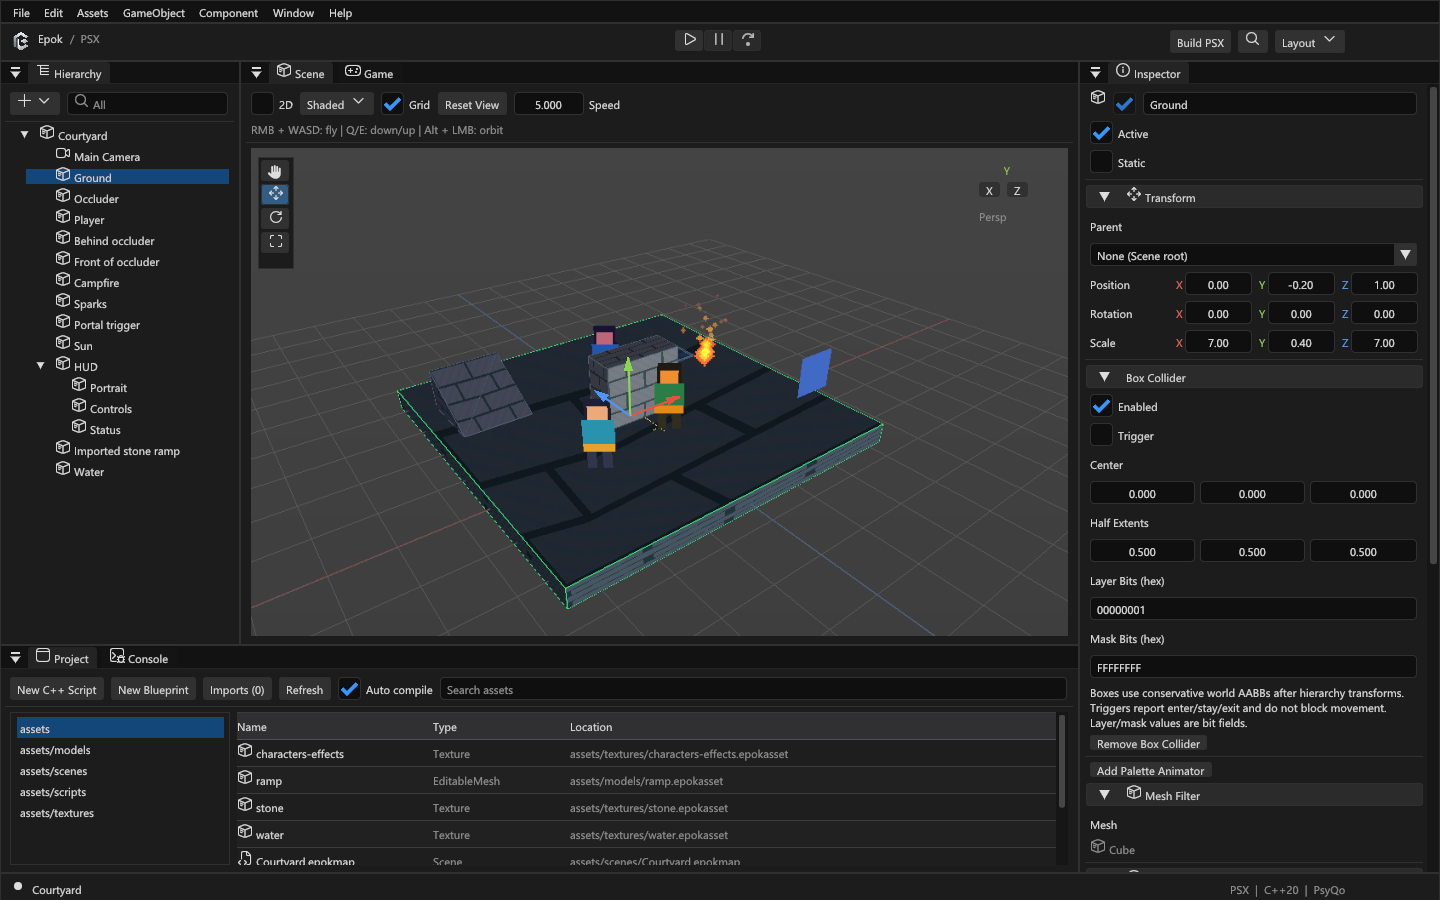
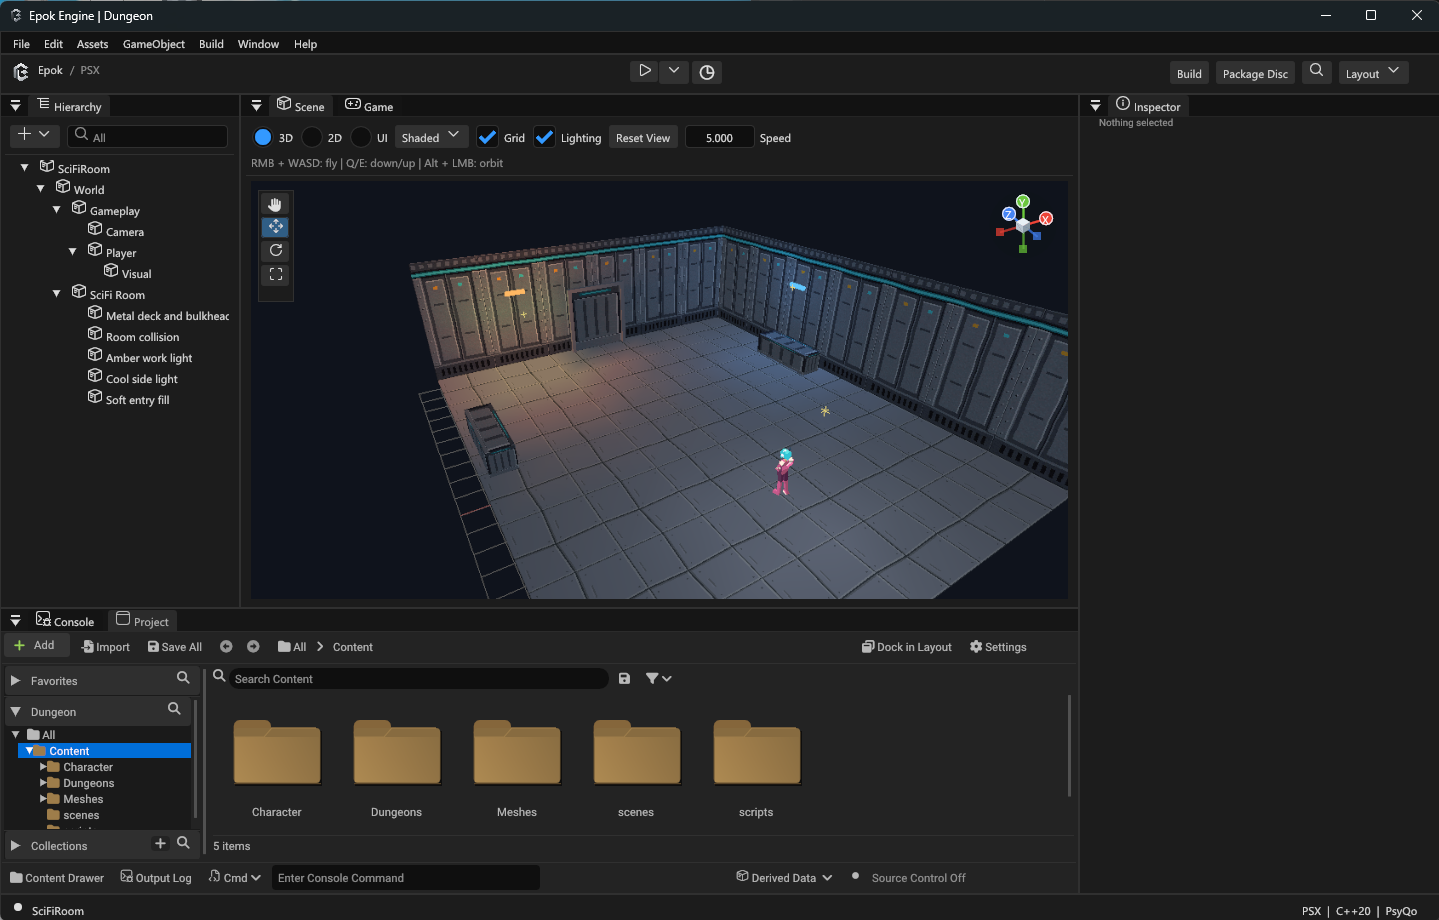
Refresh README showcase and feature overview
Replace the courtyard capture with the supplied sci-fi room screenshot. Update the feature overview for current editor, asset, animation, lighting, music, optimization and inspection workflows, and correct outdated animation and collision limits.

diff --git a/README.md b/README.md
@@ -6,7 +6,7 @@
 
 <p align="center">
   <strong>A desktop game engine for the original PlayStation.</strong><br />
-  Build worlds, animate characters and create gameplay with Blueprints or C++.
+  Build worlds, animate characters and create gameplay with C++, Blueprints or Lua.
 </p>
 
 <p align="center">
@@ -25,13 +25,13 @@
 
 ---
 
-Epok brings a visual editor workflow to PSX development. Create a project, arrange a scene, import assets, connect Blueprint graphs or write C++ behaviours, and press **Play**. Your game compiles to a native MIPS executable and runs inside an integrated PCSX-Redux Game view.
+Epok brings a visual editor workflow to PSX development. Create a project, arrange a scene, import assets, connect Blueprint graphs or write C++ or Lua gameplay, and press **Play**. Your game compiles to a native MIPS executable and runs inside an integrated PCSX-Redux Game view.
 
 **Windows x64, macOS Apple Silicon and Linux x86_64 · Experimental · MIT-licensed original code.** The editor and runtime are in active development. Emulator validation is available; physical-console validation is pending.
 
-![Epok editor with the scene viewport, editable 2.5D courtyard, scene hierarchy and component inspector](docs/images/epok-editor.png)
+![Epok editor with a lit sci-fi room in the 3D scene viewport, scene hierarchy and Content browser](docs/images/epok-editor.png)
 
-<p align="center"><sub>The included 2.5D courtyard, open in the real editor. Screenshots in this README show the working application.</sub></p>
+<p align="center"><sub>A lit sci-fi room, open in the real editor. Screenshots in this README show the working application.</sub></p>
 
 ## Features
 
@@ -43,20 +43,28 @@ the **[complete feature catalog](docs/features.md)**.
 
 | | What you can do |
 | --- | --- |
-| **Build your world** | Arrange entities in a dockable editor with transform gizmos, parenting and a component Inspector. Create and edit geometry with [Blockout](docs/blockout.md), including extrusion, bevels and geometry Undo/Redo. Sculpt and paint ground with [Terrain](docs/terrain.md). Generate seeded levels in 3D or 2D with the [Dungeon Generator](docs/dungeons.md): rooms and corridors, or recipes with branches, loops, keys and locks, floors joined by stairs and rooms built by hand, with a console minimap, gameplay queries, a seed bench and generation volumes. |
-| **Bring in your assets** | Import [PNG textures](docs/textures.md), [OBJ/MTL models](docs/static-mesh-import.md) and [FBX characters](docs/skeletal.md). Asset identities survive moves and reimports. |
+| **Edit scenes** | Arrange actors in a [dockable workspace](docs/editor.md) with 3D, 2D and UI authoring modes, transform gizmos, parenting, a component Inspector and scene Undo/Redo. Projects stay in independent game folders, with templates for C++, Blueprint or Lua starter gameplay. |
+| **Organize your content** | Browse tiles or a file table in the [Content Browser](docs/content-browser.md), with search, filters, Favorites, Collections and texture, audio and model previews. Grouped creation menus, drag-and-drop placement, identity-preserving moves, reimport and recoverable deletion keep assets manageable. |
+| **Build your world** | Create and edit geometry with [Blockout](docs/blockout.md): primitives, vertices, edges, faces, extrusion, inset, bevels, subdivision and geometry Undo/Redo. Sculpt and paint [Terrain](docs/terrain.md) with autotiled materials and an optional heightfield collider. |
+| **Generate dungeons** | Build seeded 3D or 2D levels with the [Dungeon Generator](docs/dungeons.md). Edit styles and recipes for branches, loops, caves, keys and locks, floors joined by stairs and rooms built by hand. Use generation volumes, a seed bench, gameplay queries and a console minimap, or start with the playable [Dungeon template](docs/dungeon-template.md). |
+| **Bring in your assets** | Import [PNG and native 4/8-bit TIM textures](docs/textures.md), [OBJ/MTL models](docs/static-mesh-import.md) and [FBX characters](docs/skeletal.md). Texture pages and palettes are packed into VRAM at build time; asset identities survive moves and reimports. |
+| **Animate characters** | Preview skeletons and clips, assign textures to material slots and place [skeletal characters](docs/skeletal.md). Choose direct rigid GTE skinning or compressed baked vertex animation per model; both use the same Animator and quantized 30 Hz clips. Animation bounds cull characters before pose or decode work. |
 | **Animate and add effects** | Build layered effects in the [VFX editor](docs/vfx-editor.md) with presets, Q12 curves, bursts and preview controls. Reuse [timelines](docs/timelines.md) for scene sequences and connect their markers to Blueprint gameplay. Use sprites, flipbooks, [particle emitters](docs/sprites-particles.md), fog and palette cycling. |
-| **Make 2D games** | Build [2D worlds](docs/2d.md) from Sprite2D, AnimatedSprite2D, TileMapLayer, Camera2D, CharacterBody2D, StaticBody2D, Area2D, Parallax2D, Path2D, Line2D, Polygon2D, Particles2D, Skeleton2D, navigation, RigidBody2D, Joint2D, SubViewport2D, SplitScreen2D, light, audio and canvas-layer nodes in a pixel-accurate 2D editor with move/rotate/scale tools, snapping, rulers, a sprite region editor, a sprite-sheet slicer and tile painting with terrains, patterns and a TileSet editor. Sprites, tile maps with tile collision, one-way and moving platforms, `move_and_slide`, triggers, particles, parallax, cut-out skeletons with two-bone IK, grid and navmesh pathfinding, pushable rigid bodies with rods, ropes and springs, render-to-VRAM pictures, split screen and a smoothed, limited camera run natively on the console. |
-| **Model your game objects** | Compose maps from [actors and components](docs/actors.md): `Actor3D`, `Actor2D` and `UIActor` classes written in C++ or as Blueprints, with typed components, per-map scene Blueprints and a 3D / 2D / UI authoring mode. Maps use one Actor collection. Older projects must be recreated; see [project recreation](docs/migration-actors.md). |
+| **Make 2D games** | Author [2D worlds](docs/2d.md) with snapping, rulers, sprite regions, sheet slicing and TileSet/terrain painting. Native PSX features include animated sprites, tile collision, one-way and moving platforms, `move_and_slide`, triggers, parallax, particles, cut-out skeletons with two-bone IK, grid/navmesh navigation, pushable rigid boxes and joints, render-to-VRAM views and split screen. Start with **Platformer 2D**. |
+| **Model your game objects** | Compose maps from [actors and components](docs/actors.md): `Actor3D`, `Actor2D` and `UIActor` classes authored in C++, Blueprint or Lua, with typed components, per-map scene Blueprints and a 3D / 2D / UI authoring mode. Maps use one Actor collection. Older projects must be recreated; see [project recreation](docs/migration-actors.md). |
 | **Write native gameplay** | Author C++20 behaviours with Inspector properties. Connect [input and collision](docs/input-collision.md), [scene transitions and object lifecycle](docs/runtime-services.md), cameras, tweens and [Memory Card storage](docs/memory-card.md). |
-| **Navigate NPCs** | Bake a bounded [NavLite](docs/navigation.md) walking graph from static box colliders, then reuse `NavigationAgentComponent` with a shared PSX search budget. Version 1 supports flat surfaces and obstacles. |
+| **Move characters and cameras** | Start with the [Third Person template](docs/third-person.md) for camera-relative movement, jumping, collision and an obstacle-aware orbit camera. Bake a bounded [NavLite](docs/navigation.md) walking graph from static box colliders for NPCs on flat surfaces, with a shared PSX search budget. |
 | **Build visual gameplay** | Create [Blueprint classes](docs/blueprints.md) with native or visual parents, inherited defaults, typed graph nodes, functions, event overrides and Call Parent. Author entity templates, spawn classes and debug node execution. Graphs compile ahead of time to native C++; no graph VM runs on the PSX. |
 | **Script gameplay in Lua** | Author classes in [Lua](docs/lua-scripting.md) that subclass reflected C++ or other Lua classes, with Inspector properties, event overrides, typed gameplay-service/component calls and explicit parent calls. One project-wide setting compiles the same scripts to native C++ or runs them through a Lua VM linked into the game. New projects use bounded, statically typed Gameplay profile 2; older manifests retain the scalar Legacy v1 profile. Neither profile is general Lua compatibility. |
-| **Light and render** | Combine baked vertex lighting, bounded realtime GTE lighting, static shadows and blob shadows. Author for PSX rendering limits with native [performance counters](docs/performance.md). |
+| **Light and render** | Combine [baked vertex lighting](docs/lighting.md), ambient occlusion, bounded realtime GTE lighting, static shadows and moving blob shadows. Light edits update baked previews in the background; Scene's Lighting toggle compares lit and authored colors. Add [sky gradients, depth fog, screen fades and scrolling UVs](docs/environment-effects.md). |
+| **Optimize large worlds** | Author camera paths and bake per-sample visibility and prepared draw order for guided cameras. Use retained geometry/HUD packets, chunk culling and optional [geometry streaming](docs/streaming.md) from CD or PCDrv into a bounded RAM pool. See [world optimization](docs/world-optimization.md) for each technique's scope and costs. |
+| **Inspect memory and performance** | Use the [Memory Analyzer](docs/play.md#memory-analyzer) to inspect Main RAM, VRAM, SPU, scratchpad and generated files, with a treemap and symbol/asset attribution. Enable native [FPS, CPU, GTE, GPU command DMA and SPU overlays](docs/performance.md), inspect resource/drop counters and capture runtime profiles. |
 | **Make PocketStation games** | Write [PocketStation](docs/pocketstation.md) apps in Pocket Lua (Lua compiled to ARM code by Epok) or ARM/Thumb assembly, draw their sprites and icons, and play them on the embedded PocketStation emulator with live variables and a debugger. Games install, start and exchange data with them from C++, Blueprints or Lua, and Play connects the game to the emulated PocketStation in memory card slot 1. |
 | **Play full-motion video** | Import MP4, MOV, AVI, MKV or WebM clips and play them from a Blueprint node or Lua as [full-screen video](docs/video.md): streamed from CD with XA sound, decoded by the MDEC, previewed in the Inspector exactly as the console shows them. |
-| **Add audio and UI** | Import WAV, MP3, FLAC or OGG for SPU sound effects and XA music. Build [HUDs](docs/hud.md) with text, atlases, nine-slice images, progress bars, buttons, check boxes, sliders and D-pad navigation, and translate them with a project string table. |
+| **Play sequenced music** | Convert MIDI and SoundFont instruments into a [MusicSequence](docs/assets.md#sequenced-psx-music) with a sample bank fitted to SPU memory. The **Epok Pulse** driver cooks timed SPU commands on the host; Target Preview auditions the cooked result, and sequences can also render to PCM WAV for XA conversion. |
+| **Add audio and UI** | Import [WAV, MP3, FLAC or OGG](docs/assets.md) for SPU sound effects and XA music, with trim, rate and normalization controls and host auditions. Build [HUDs](docs/hud.md) with text, atlases, nine-slice images, progress bars, buttons, check boxes, sliders and D-pad navigation, and translate them with a project string table. |
 | **Play and export** | Choose [embedded/windowed PCSX-Redux or PSX through NOTPSXSerial](docs/play.md), the current scene or whole game, and resident/CD/PC geometry. Customize loading transitions with synchronized picture/audio fades. Build PS-X executables, package physical-disc BIN/CUE or ISO images with a user-supplied system-area license, or [export a standalone PsyQo project](runtime/README.md). |
+| **Automate the editor** | Connect an [MCP client](docs/mcp.md) to inspect and edit scenes, manage assets and scripts, generate dungeons, bake visibility, capture views, build games and control Play. Scene batches support Undo/Redo and revision checks; the local server is optional and off by default. |
 
 Projects live independently of the editor. Scenes, scripts and imported assets stay in your game folder; the engine owns the runtime and development tools.
 
@@ -240,11 +248,11 @@ Browse the **[Epok documentation](docs/getting-started.md)** for guides, workflo
 
 Epok targets the original hardware's constraints. Keep these boundaries in mind when planning a project:
 
-- **Animation:** rigid GTE skinning and compressed baked vertex clips are selectable per imported model; skeletal textures, blended skin weights and animation blending remain future work.
+- **Animation:** textured skeletal characters support rigid GTE skinning or compressed baked vertex clips per imported model; blended skin weights, animation blending, retargeting and root-motion extraction remain future work.
 - **Editing:** the open map's last 32 scene edits, Blueprint graphs/templates, Blockout geometry and MCP scene batches have Undo/Redo. Entity multiselection remains future work.
 - **Actors:** actor and component classes, per-map scene Blueprints and the 3D/2D/UI modes are validated on the host and, for 2D actors and tile maps in C++, Blueprint and Lua, in PSX builds running in PCSX-Redux. There are no Pawn/Character archetypes and no 3D positional audio; 2D rigid boxes do not tumble.
 - **Rendering:** frustum clipping and ordering tables are used; intersecting polygons can still produce sorting artifacts. Capacity limits are not frame-rate guarantees.
-- **Simulation:** measured time drives fixed 60 Hz steps with bounded catch-up. Collision uses conservative AABBs, rather than rigid-body physics.
+- **Simulation:** measured time drives fixed 60 Hz steps with bounded catch-up. 3D collision uses conservative AABBs; 2D rigid bodies use bounded axis-aligned boxes and joints.
 - **Resources:** prelinked scene banks share resources and reuse active objects and VRAM. Resident data must fit PSX RAM; arbitrary map streaming from CD is not implemented.
 - **Validation:** builds and emulator execution are verified. Physical controllers, console performance and persistence on real Memory Cards still need hardware validation.
 
